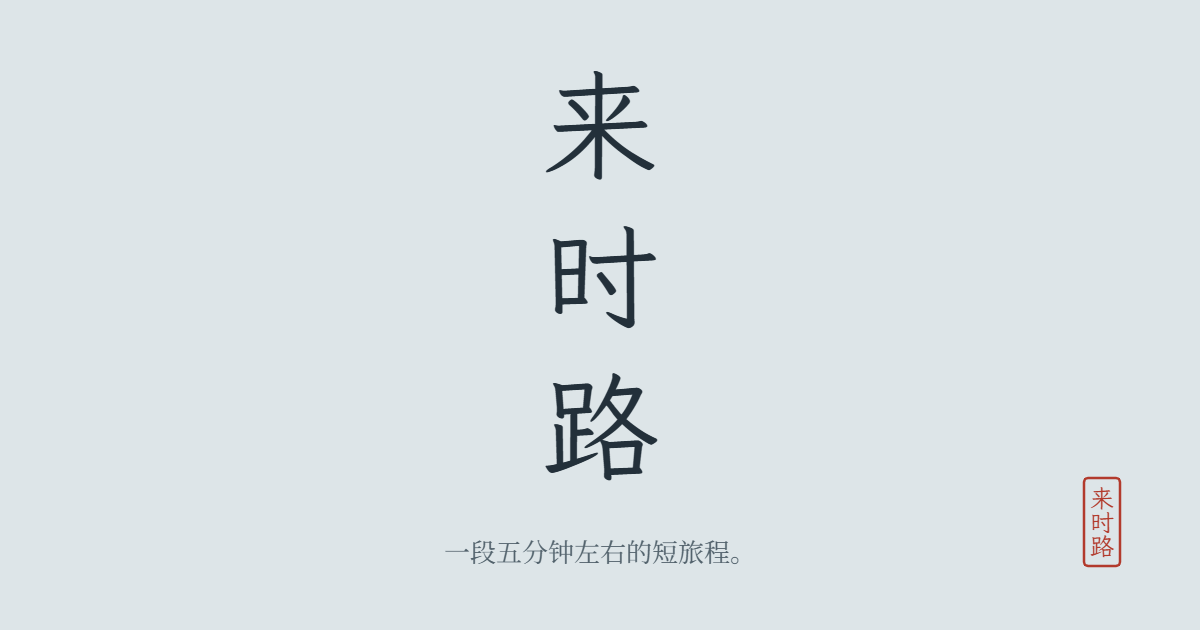
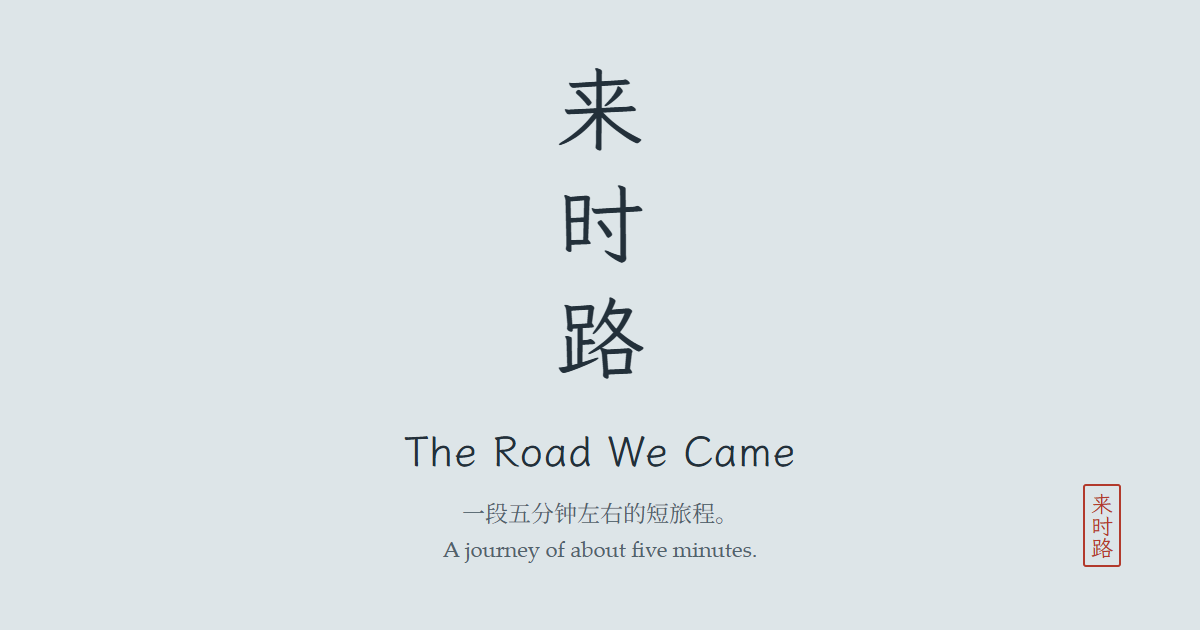
feat: make the link preview card bilingual
- Redraw public/og.png like the title screen, with the English name,
  The Road We Came, under the vertical 来时路 and one line in each
  language beneath it
- Give the card tags both languages: the title leads with Chinese and
  the description with English, so a preview cut short still shows
  English readers some English; add og:locale:alternate en_US
- Keep the card's source in scripts/og.html and add npm run og, which
  draws it with a local Chrome or Edge in headless mode, so no browser
  package is needed
- Document the card and npm run og in the README

Changed region(s): [[0.3392, 0.1206, 0.6783, 0.754], [0.37, 0.7841, 0.6167, 0.9048], [0.8942, 0.754, 0.9558, 0.9048]]

diff --git a/scripts/og.html b/scripts/og.html
@@ -1,0 +1,103 @@
+<!doctype html>
+<html lang="zh-CN">
+  <head>
+    <meta charset="UTF-8" />
+    <title>来时路 · The Road We Came</title>
+    <!-- The link preview card. `npm run og` draws this page at 1200x630
+         into public/og.png; the page itself is never served. -->
+    <link
+      rel="stylesheet"
+      href="../node_modules/lxgw-wenkai-webfont/lxgwwenkai-regular.css"
+    />
+    <style>
+      /* The light colours and fonts of src/style.css, laid out like the
+         title screen: the Chinese name down the middle, the English name
+         under it as the English title screen sets it, then one line in
+         each language and the seal. */
+      :root {
+        --fog: #dde5e8;
+        --ink: #23303a;
+        --ink-soft: #52626c;
+        --seal: #b23a2c;
+        --serif:
+          'Noto Serif SC', 'Source Han Serif SC', 'Songti SC', 'STSong',
+          'SimSun', serif;
+        --latin:
+          'Iowan Old Style', 'Palatino Linotype', Palatino, 'Book Antiqua',
+          Georgia, serif;
+        --kai: 'LXGW WenKai', 'Kaiti SC', 'STKaiti', 'KaiTi', serif;
+      }
+
+      html,
+      body {
+        margin: 0;
+      }
+
+      body {
+        position: relative;
+        display: grid;
+        place-content: center;
+        justify-items: center;
+        width: 1200px;
+        height: 630px;
+        overflow: hidden;
+        background: var(--fog);
+        color: var(--ink);
+        text-align: center;
+        -webkit-font-smoothing: antialiased;
+      }
+
+      h1 {
+        margin: 0;
+        font-family: var(--kai);
+        font-size: 88px;
+        font-weight: 400;
+        letter-spacing: 0.3em;
+        line-height: 1;
+        writing-mode: vertical-rl;
+      }
+
+      .name {
+        margin: 20px 0 18px;
+        font-family: var(--kai);
+        font-size: 42px;
+        letter-spacing: 0.01em;
+        line-height: 1.2;
+      }
+
+      .note {
+        margin: 0;
+        color: var(--ink-soft);
+        font-family: var(--serif);
+        font-size: 23px;
+        line-height: 1.6;
+      }
+
+      .note:lang(en) {
+        font-family: var(--latin);
+        font-size: 22px;
+      }
+
+      .seal {
+        position: absolute;
+        right: 79px;
+        bottom: 63px;
+        padding: 0.3em 0.2em;
+        border: 2px solid var(--seal);
+        border-radius: 3px;
+        color: var(--seal);
+        font-family: var(--kai);
+        font-size: 22px;
+        line-height: 1.15;
+        writing-mode: vertical-rl;
+      }
+    </style>
+  </head>
+  <body>
+    <h1>来时路</h1>
+    <p class="name" lang="en">The Road We Came</p>
+    <p class="note">一段五分钟左右的短旅程。</p>
+    <p class="note" lang="en">A journey of about five minutes.</p>
+    <div class="seal">来时路</div>
+  </body>
+</html>

diff --git a/index.html b/index.html
@@ -3,7 +3,10 @@
   <head>
     <meta charset="UTF-8" />
     <meta name="viewport" content="width=device-width, initial-scale=1.0" />
-    <meta name="description" content="一段五分钟左右的短旅程。" />
+    <meta
+      name="description"
+      content="A journey of about five minutes. 一段五分钟左右的短旅程。"
+    />
     <!-- Match --fog in src/style.css. -->
     <meta
       name="theme-color"
@@ -17,14 +20,19 @@
     />
     <link rel="icon" type="image/svg+xml" href="/favicon.svg" />
     <title>来时路</title>
-    <!-- Link previews. Crawlers need absolute URLs, so these name the
-         GitHub Pages address; public/og.png is the image. -->
+    <!-- Link previews. Crawlers do not run the script that picks a
+         language, so the card carries both: the title leads with Chinese,
+         the description with English, so a preview cut short still shows
+         English readers some English. Crawlers need absolute URLs, so
+         these name the GitHub Pages address. public/og.png is drawn from
+         scripts/og.html by `npm run og`. -->
     <meta property="og:type" content="website" />
     <meta property="og:locale" content="zh_CN" />
-    <meta property="og:title" content="来时路" />
+    <meta property="og:locale:alternate" content="en_US" />
+    <meta property="og:title" content="来时路 · The Road We Came" />
     <meta
       property="og:description"
-      content="一段五分钟左右的短旅程。出发前写下一句理由，路上的人会一遍遍转述它，到了山顶，你要凭记忆把它写回那卷空白的经上。"
+      content="A journey of about five minutes. Before you set out, write down why you’re going. The people along the road will pass it on, again and again. At the summit, you write it back from memory onto a blank scroll. 一段五分钟左右的短旅程。出发前写下一句理由，路上的人会一遍遍转述它，到了山顶，你要凭记忆把它写回那卷空白的经上。"
     />
     <meta
       property="og:url"
@@ -38,7 +46,7 @@
     <meta property="og:image:height" content="630" />
     <meta
       property="og:image:alt"
-      content="月白底上竖排楷体写着“来时路”，下方一行小字“一段五分钟左右的短旅程。”"
+      content="The title 来时路 written top to bottom in Kai script, with The Road We Came and “A journey of about five minutes” beneath it. 月白底上竖排楷体写着“来时路”，下面是英文名和中英文各一行小字。"
     />
     <meta name="twitter:card" content="summary_large_image" />
   </head>

diff --git a/README.md b/README.md
@@ -29,6 +29,7 @@ npm run dev
 | `npm run format` | 自动格式化                                    |
 | `npm run build`  | 类型检查并构建到 `dist/`                      |
 | `npm run zip`    | 构建并打包成 `laishilu.zip`，用来上传 itch.io |
+| `npm run og`     | 用本机的 Chrome 或 Edge 重画分享卡片的图片    |
 
 ## 部署到 GitHub Pages
 
@@ -80,7 +81,7 @@ npm run dev
 - 输入框处理了中文输入法组字时按回车的情况。以后换引擎或重写界面，也别改成在 canvas 里自绘的输入框。
 - 出发时至少要写两个词（中文两个字，英文两个单词），路上改口至少要一个字，不够时按下按钮，输入框下面会提示"再多写几个字。"。路人转述最多把理由磨到两个词，所以只要玩家自己不改短，渡口总有两个词可挑，山顶也总能剩下点什么。山顶默写不设下限，写一串省略号也算一种回答。
 - 楷体用的是霞鹜文楷（npm 包 `lxgw-wenkai-webfont`，字体按 SIL OFL 1.1 授权），按 unicode-range 拆成 97 块，浏览器只下载页面上用到的字。
-- 分享卡片的标签在 `index.html`，图片是 `public/og.png`（1200×630）。卡片只有中文一种。
+- 分享卡片的标签在 `index.html`，图片是 `public/og.png`（1200×630），照着标题页画在 `scripts/og.html` 里，改了它要运行 `npm run og` 重画（找不到浏览器时，用环境变量 `CHROME` 指定路径）。生成链接预览的爬虫不运行脚本，用不上语言选择，所以卡片只有一张，中英双语：标题中文在前，描述英文在前，预览被截短时英文读者也能读到英文。
 - 英文版的经卷改成横排，印章仍然用中文的"来时路"。
 - 茶寮、驿站、桥头的台词各有几套：第一趟用 `first`，之后按走到山顶的次数轮流用 `later` 里的几套，抹去走过的路后从头算。同一趟里三处用的是同一个序号，所以 `later` 是按趟写的：第一套三处都认出了你，第二套从茶寮的小雨一直下到驿站，到桥头已是雨后。加新的一套时，三处要一起加。
 - `package.json` 里的 `overrides` 是为了让 typescript-eslint 用上修复过安全问题的 minimatch，等它自己升级依赖后可以删掉。
